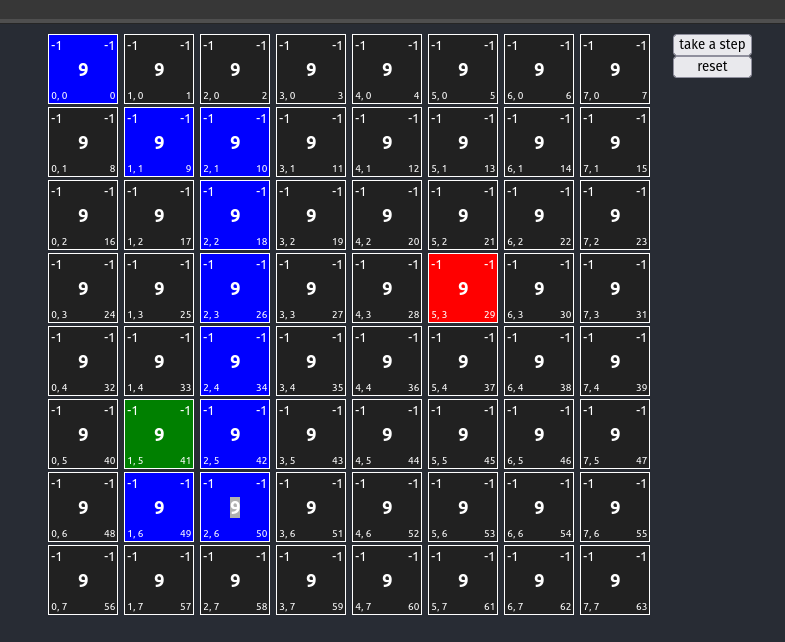
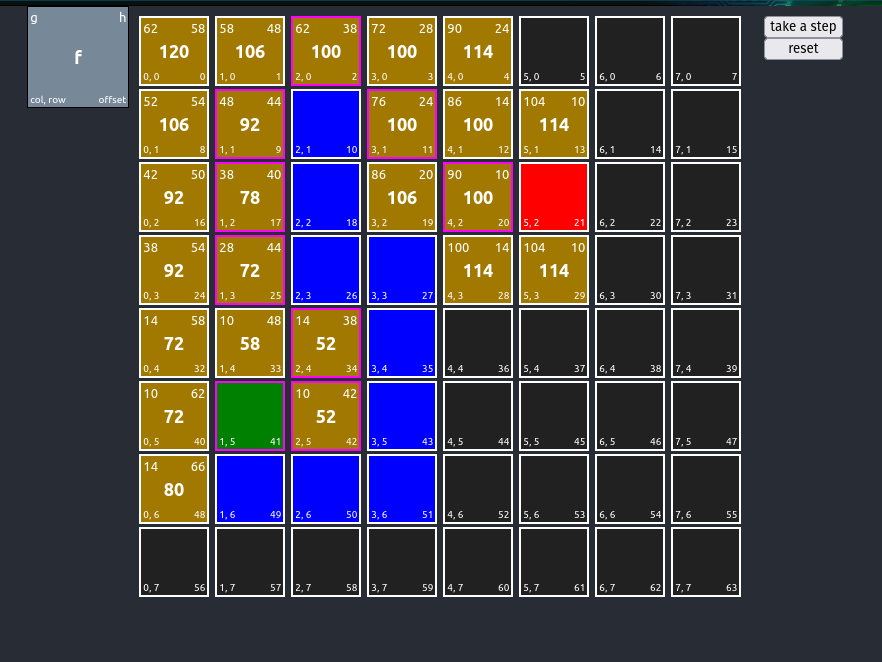
final foo?

diff --git a/src/App.js b/src/App.js
@@ -47,7 +47,9 @@ function App() {
   useEffect(() => { console.log("open: ", open) }, [open])
   useEffect(() => { console.log("closed", closed) }, [closed])
  
+  */
   useEffect(() => { console.log("path", path) }, [path])
+  /*
   useEffect(() => { console.log("squareStates", squareStates)}, [squareStates])
   
   useEffect(() => { console.log("start: ", start ) }, [start]);
@@ -55,7 +57,7 @@ function App() {
   */
 
   const squareClick = (offset, state) => {
-    let availableStates = Array(0, 1, 2, 3);
+    let availableStates = [0, 1, 2, 3];
     let isStartSelected = squareStates.filter((state) => { return state.state === 1; }).length === 1 ? true : false;
     let isEndSelected   = squareStates.filter((state) => { return state.state === 2; }).length === 1 ? true : false;
     if (isStartSelected) availableStates = availableStates.filter((n) => { return n === 1 });
@@ -126,7 +128,11 @@ function App() {
 
     if (currentSquareOffset === end) {
       toast.success("all done!");
-      setOpen(squareStates.filter((s) => (s.offset === end)))
+      setPath(prevPath => {
+        const newPath = [...prevPath.path, currentSquareOffset]
+        return { ...prevPath, path: newPath }
+      });
+      setOpen(squareStates.filter((s) => (s.offset === end)));
       return;
     }
 
@@ -140,7 +146,7 @@ function App() {
     // this will find the absolute lowest cost but you have to amend your path
     setOpen([...open, ...neighborOffsetsByLowestFCost].sort((a, b) => b.fCost - a.fCost));
 
-    // this will find the lowest cost relative to where you currently are.  greedy, but not
+    // this will find the lowest cost relative to where you 
     // but not intelligent, and you don't have to revisit your path
     setOpen([...open, ...neighborOffsetsByLowestFCost]);
     setClosed([...closed, squareStatesWithCost[currentSquareOffset]])
@@ -156,7 +162,7 @@ function App() {
       if (idx === currentSquareOffset) {
         square = {...square, isCurrent: true };
       }
-      else if (neighborOffsets.includes(end)) {
+      else if (idx === end) {
         return square; 
       }
       else if (neighborOffsets.includes(idx)) {

diff --git a/src/Square.js b/src/Square.js
@@ -4,12 +4,11 @@ import "./Square.css";
 
 function Square(props) {
   const bgColors = {
-    0: "#212121",
-    1: "green",
-    2: "red",
-    3: "blue",
-    7: "orange",
-    10: "#a17800",
+    0: "#212121",     // empty; nothing
+    1: "green",       // start
+    2: "red",         // end
+    3: "blue",        // wall
+    10: "goldenrod",  // neighbor
   };
 
   const [row, col] = offsetToRowCol(props.state.offset);
@@ -18,11 +17,13 @@ function Square(props) {
     props.squareClick(props.state.offset, props.state.state);
   };
 
-  let borderColor;
+  let borderColor, borderWidth;
   if (props.state.isCurrent) {
-    borderColor = "magenta"
+    borderColor = "magenta";
+    borderWidth = "5px";
   } else {
     borderColor = props.borderColor;
+    borderWidth = "2px";
   }
 
   let fCostText;
@@ -38,7 +39,7 @@ function Square(props) {
       onClick={() => squareClick()}
       style={{
         backgroundColor: bgColors[props.state.state],
-        border: `2px solid ${borderColor}`,
+        border: `${borderWidth} solid ${borderColor}`,
         width: `${props.width}px`,
         height: `${props.height}px`,
       }}

diff --git a/src/App.css b/src/App.css
@@ -19,7 +19,6 @@
   align-content: start;
 }
 
-
 .sampleSquare {
   background-color: lightslategray;
   width: 100px;
